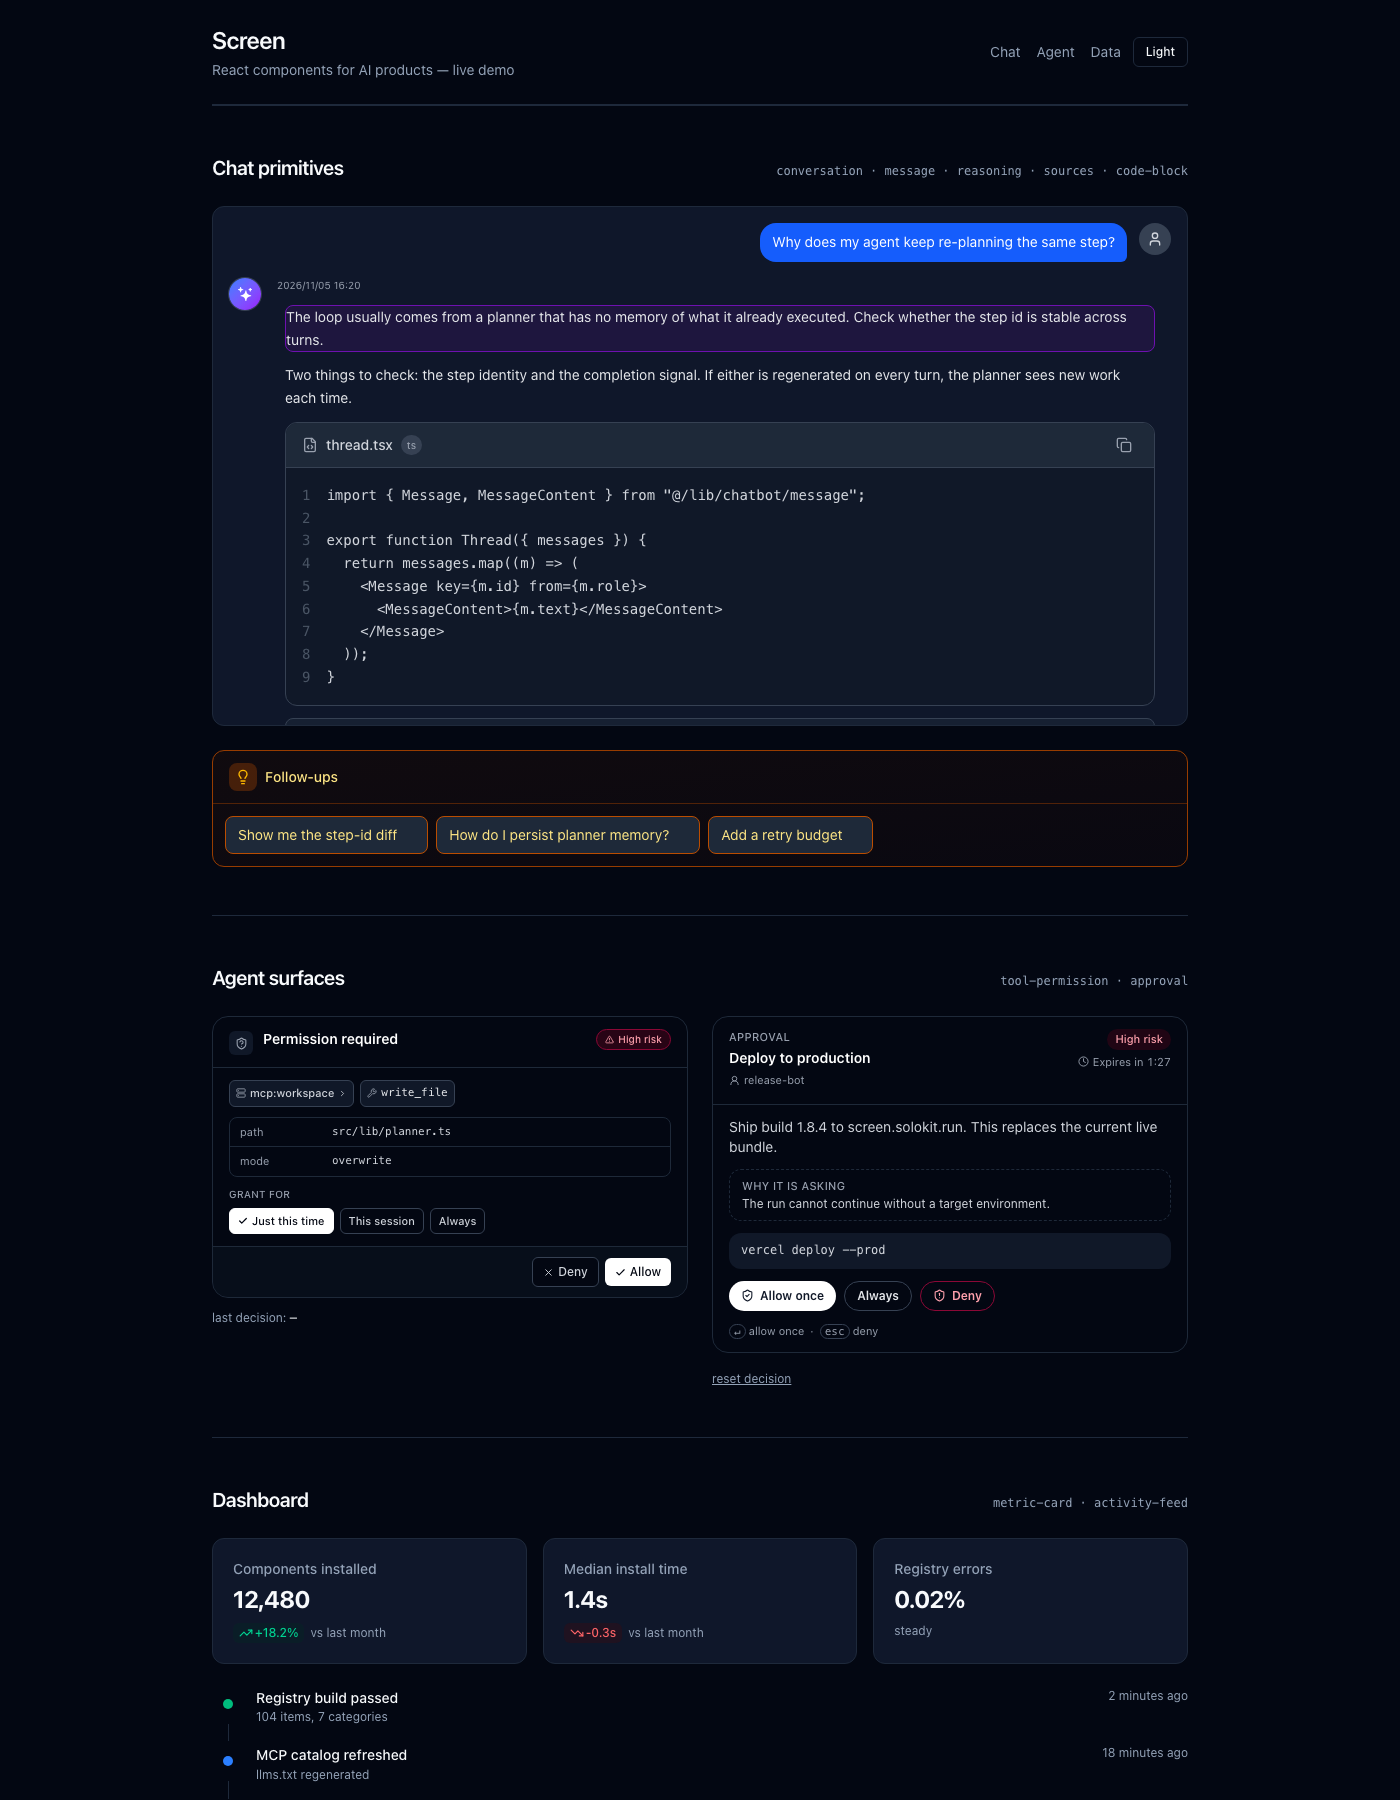
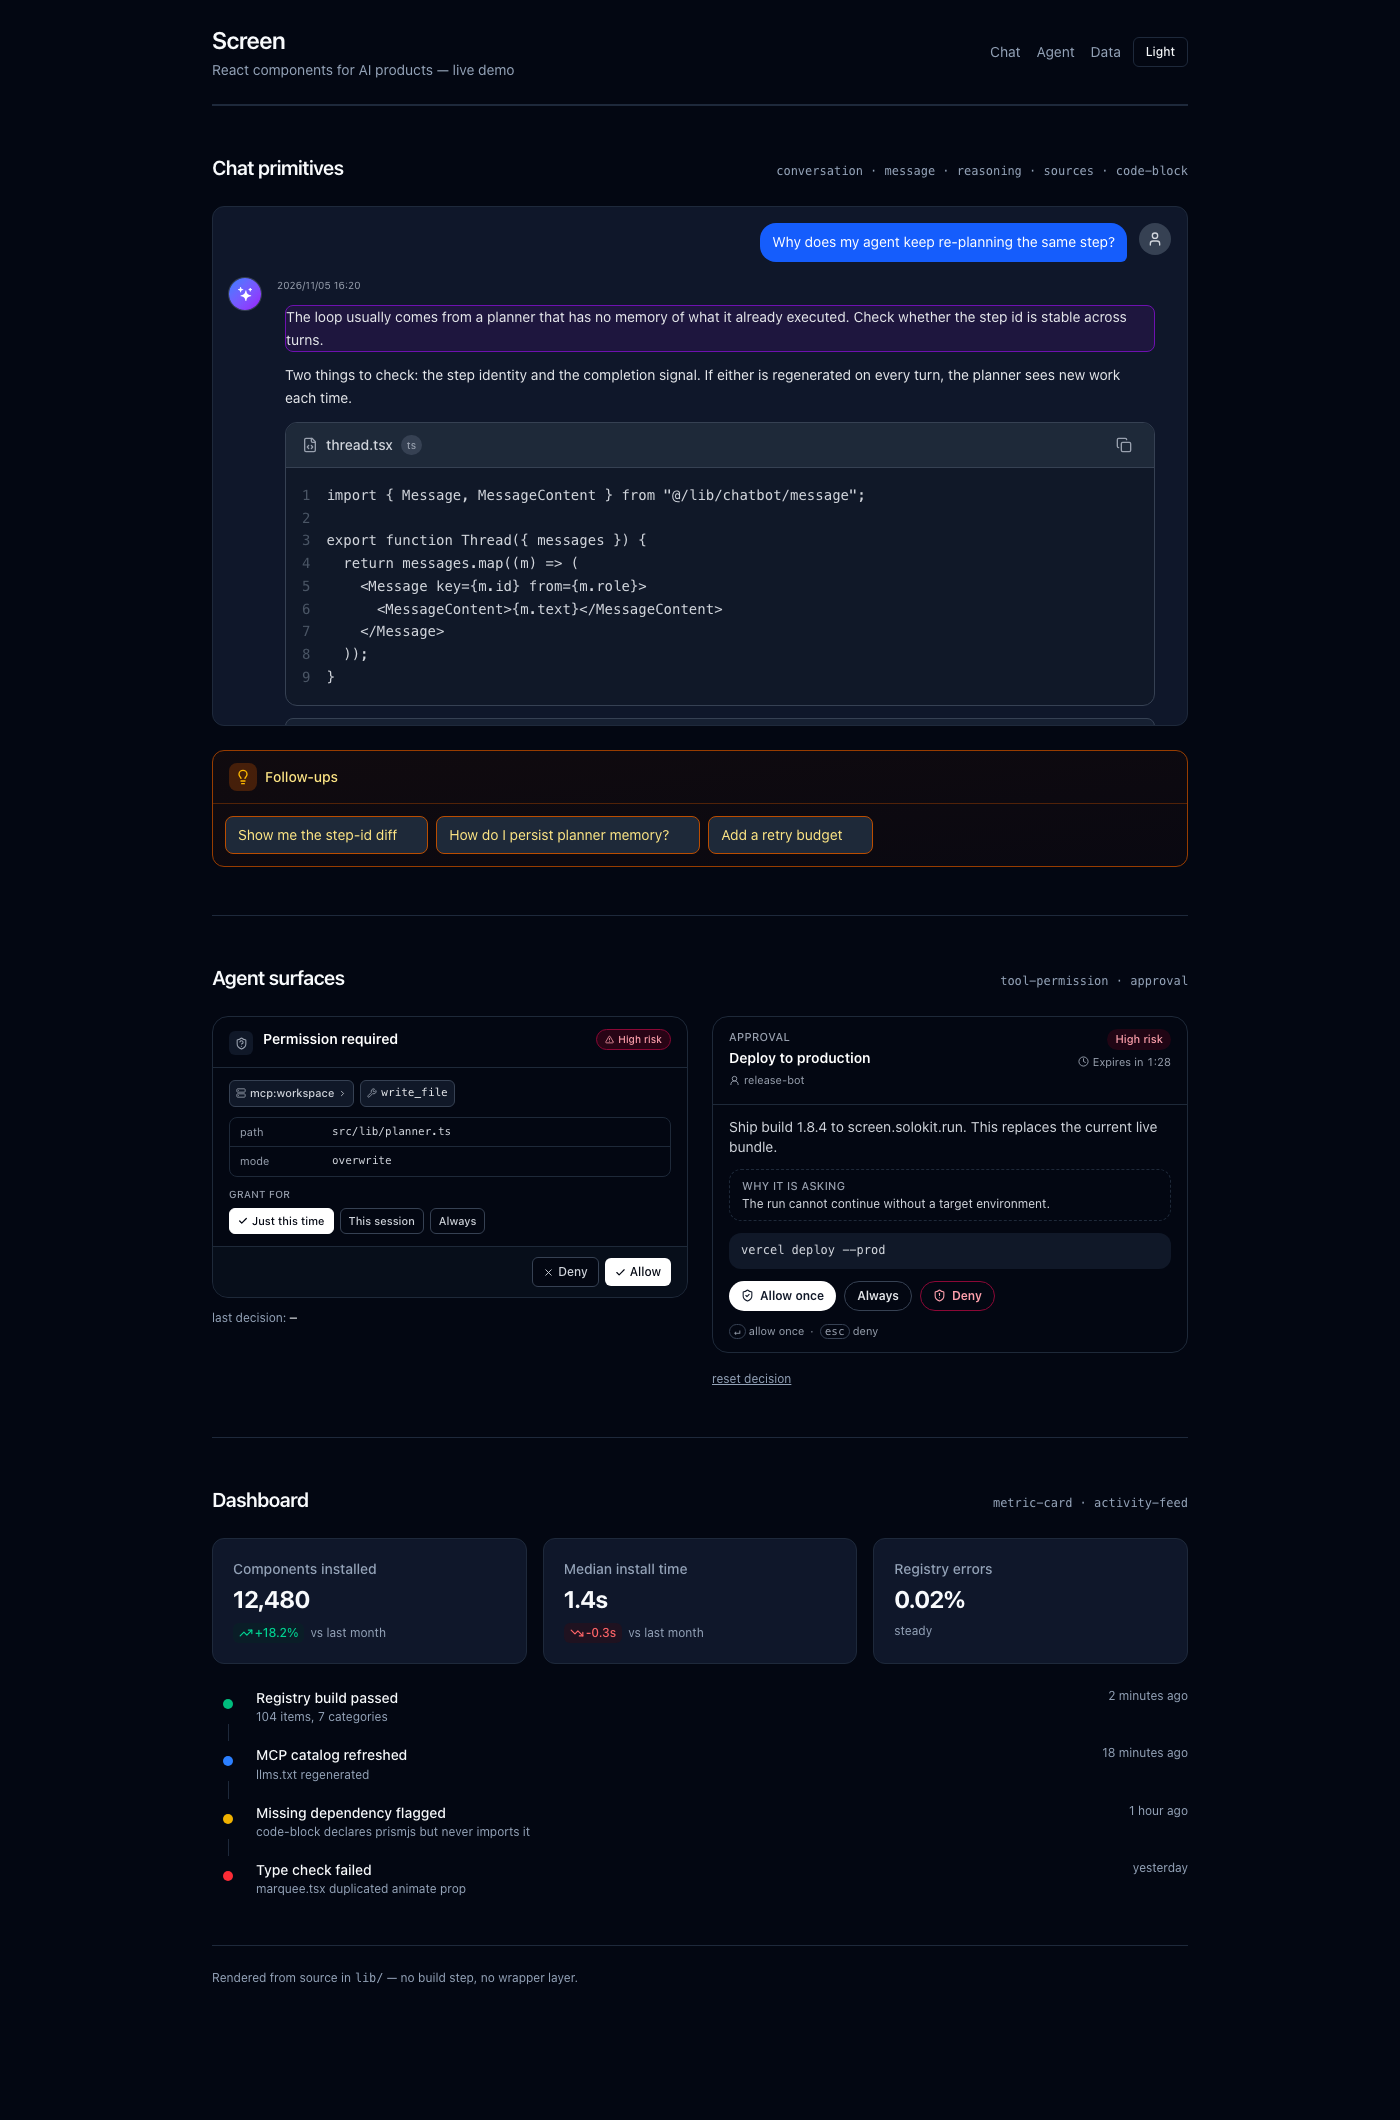
fix(theme): ship the theme layer and resolve dark mode before first paint
- add styles/screen.css: @custom-variant dark + design tokens, one import
- demo imports the shipped file instead of a local copy, with @source for lib/
- resolve theme in <head> so components never render light-then-flip
  (suggestion chips were stuck white because of transition-all)
- README: import instructions + pre-paint snippet
- package.json: files whitelist

diff --git a/styles/screen.css b/styles/screen.css
@@ -1,0 +1,77 @@
+/*
+ * Screen — theme layer
+ *
+ * Import this after Tailwind:
+ *
+ *   @import "tailwindcss";
+ *   @import "./screen.css";
+ *
+ * It does two things:
+ *   1. redefines the `dark:` variant so it follows a class on <html> instead of
+ *      the OS setting (Tailwind 4 defaults to prefers-color-scheme)
+ *   2. declares the design tokens every component reads from
+ *
+ * Skip step 1 and every `dark:` utility in the library silently does nothing
+ * while the rest of the page still looks themed.
+ */
+
+@custom-variant dark (&:where(.dark, .dark *));
+
+@theme {
+  --color-background: #ffffff;
+  --color-foreground: #0f172a;
+  --color-card: #ffffff;
+  --color-card-foreground: #0f172a;
+  --color-popover: #ffffff;
+  --color-popover-foreground: #0f172a;
+  --color-primary: #2563eb;
+  --color-primary-foreground: #f8fafc;
+  --color-secondary: #f1f5f9;
+  --color-secondary-foreground: #334155;
+  --color-muted: #f8fafc;
+  --color-muted-foreground: #64748b;
+  --color-accent: #f1f5f9;
+  --color-accent-foreground: #334155;
+  --color-destructive: #ef4444;
+  --color-destructive-foreground: #f8fafc;
+  --color-border: #e2e8f0;
+  --color-input: #e2e8f0;
+  --color-ring: #2563eb;
+  --radius: 0.75rem;
+
+  /* Screen brand */
+  --color-professional-blue: #3b82f6;
+  --color-professional-gray: #475569;
+  --color-professional-light: #f8fafc;
+  --color-success-green: #22c55e;
+  --color-warning-orange: #f97316;
+
+  /* Charts */
+  --color-chart-1: #dc2626;
+  --color-chart-2: #10b981;
+  --color-chart-3: #3b82f6;
+  --color-chart-4: #f59e0b;
+  --color-chart-5: #8b5cf6;
+}
+
+.dark {
+  --color-background: #030712;
+  --color-foreground: #f8fafc;
+  --color-card: #0f172a;
+  --color-card-foreground: #f8fafc;
+  --color-popover: #0f172a;
+  --color-popover-foreground: #f8fafc;
+  --color-primary: #3b82f6;
+  --color-primary-foreground: #030712;
+  --color-secondary: #1e293b;
+  --color-secondary-foreground: #cbd5e1;
+  --color-muted: #1e293b;
+  --color-muted-foreground: #94a3b8;
+  --color-accent: #1e293b;
+  --color-accent-foreground: #cbd5e1;
+  --color-destructive: #dc2626;
+  --color-destructive-foreground: #f8fafc;
+  --color-border: #1e293b;
+  --color-input: #1e293b;
+  --color-ring: #3b82f6;
+}

diff --git a/demo/src/index.css b/demo/src/index.css
@@ -1,53 +1,11 @@
 @import "tailwindcss";
 
-/* Tailwind 4 defaults `dark:` to prefers-color-scheme. Screen toggles a class
-   on <html>, so the variant has to be redefined. Consumers need this line too. */
-@custom-variant dark (&:where(.dark, .dark *));
+/* The single source of truth for Screen's theme layer. Consumers import the
+   same file, so the demo is testing the shipped artifact, not a local copy. */
+@import "../../styles/screen.css";
 
-@theme {
-  --color-background: #ffffff;
-  --color-foreground: #0f172a;
-  --color-card: #ffffff;
-  --color-card-foreground: #0f172a;
-  --color-popover: #ffffff;
-  --color-popover-foreground: #0f172a;
-  --color-primary: #2563eb;
-  --color-primary-foreground: #f8fafc;
-  --color-secondary: #f1f5f9;
-  --color-secondary-foreground: #334155;
-  --color-muted: #f8fafc;
-  --color-muted-foreground: #64748b;
-  --color-accent: #f1f5f9;
-  --color-accent-foreground: #334155;
-  --color-destructive: #ef4444;
-  --color-destructive-foreground: #f8fafc;
-  --color-border: #e2e8f0;
-  --color-input: #e2e8f0;
-  --color-ring: #2563eb;
-  --radius: 0.75rem;
-}
-
-.dark {
-  --color-background: #030712;
-  --color-foreground: #f8fafc;
-  --color-card: #0f172a;
-  --color-card-foreground: #f8fafc;
-  --color-popover: #0f172a;
-  --color-popover-foreground: #f8fafc;
-  --color-primary: #3b82f6;
-  --color-primary-foreground: #030712;
-  --color-secondary: #1e293b;
-  --color-secondary-foreground: #cbd5e1;
-  --color-muted: #1e293b;
-  --color-muted-foreground: #94a3b8;
-  --color-accent: #1e293b;
-  --color-accent-foreground: #cbd5e1;
-  --color-destructive: #dc2626;
-  --color-destructive-foreground: #f8fafc;
-  --color-border: #1e293b;
-  --color-input: #1e293b;
-  --color-ring: #3b82f6;
-}
+/* Component classes live outside this package, so point Tailwind at them. */
+@source "../../lib";
 
 html,
 body {

diff --git a/demo/index.html b/demo/index.html
@@ -4,6 +4,24 @@
     <meta charset="UTF-8" />
     <meta name="viewport" content="width=device-width, initial-scale=1.0" />
     <title>Screen — component demo</title>
+    <script>
+      // Resolve the theme before the first paint. Doing this in a React effect
+      // means components render light, then flip — anything with a transition
+      // (the suggestion chips do) can get stuck at its starting colour.
+      (function () {
+        var q = new URLSearchParams(location.search).get("theme");
+        var stored = null;
+        try {
+          stored = localStorage.getItem("solokit-theme-mode");
+        } catch (e) {}
+        var choice = q || stored || "system";
+        var dark =
+          choice === "dark" ||
+          (choice === "system" &&
+            window.matchMedia("(prefers-color-scheme: dark)").matches);
+        document.documentElement.classList.toggle("dark", dark);
+      })();
+    </script>
   </head>
   <body>
     <div id="root"></div>

diff --git a/README.md b/README.md
@@ -61,21 +61,53 @@ Plus 13 composable blocks (`registry:block`) such as `dashboard-layout`, `stats-
 
 Components read design tokens from CSS variables, so light and dark mode come for free. The theme presets and the visual editor live in `lib/theme/`. Import `ThemeProvider` from `lib/theme-provider.tsx` to wire tokens at runtime.
 
-### One line you must add
+### Import the theme layer first
 
 Tailwind 4 points the `dark:` variant at `prefers-color-scheme`, not at a class.
 `ThemeProvider` toggles `.dark` on `<html>`, so the variant has to be redefined
-or every dark style silently does nothing:
+or every dark style silently does nothing.
+
+`styles/screen.css` already does this, together with the token definitions every
+component reads from:
 
 ```css
+/* your globals.css */
 @import "tailwindcss";
+@import "./styles/screen.css";   /* copy it in, or import it from node_modules */
+```
 
+That is the whole setup. Without it the app still "switches theme" — the CSS
+variables change — but any component using `dark:` utilities keeps its light
+styling. This is the most common integration mistake with this library.
+
+If you would rather define tokens yourself, the one line that matters is:
+
+```css
 @custom-variant dark (&:where(.dark, .dark *));
 ```
 
-Without this line the app still "switches theme" — the CSS variables change —
-but any component using `dark:` utilities keeps its light styling. This is the
-most common integration mistake with this library.
+### Set the class before the first paint
+
+Add this to `<head>`, ahead of your app bundle. Resolving the theme in a React
+effect instead means components render light first and then flip — and anything
+carrying a `transition` (the suggestion chips do) can stay stuck at its starting
+colour:
+
+```html
+<script>
+  (function () {
+    var q = new URLSearchParams(location.search).get("theme");
+    var stored = null;
+    try { stored = localStorage.getItem("solokit-theme-mode"); } catch (e) {}
+    var choice = q || stored || "system";
+    var dark =
+      choice === "dark" ||
+      (choice === "system" &&
+        window.matchMedia("(prefers-color-scheme: dark)").matches);
+    document.documentElement.classList.toggle("dark", dark);
+  })();
+</script>
+```
 
 ### Tokens
 
